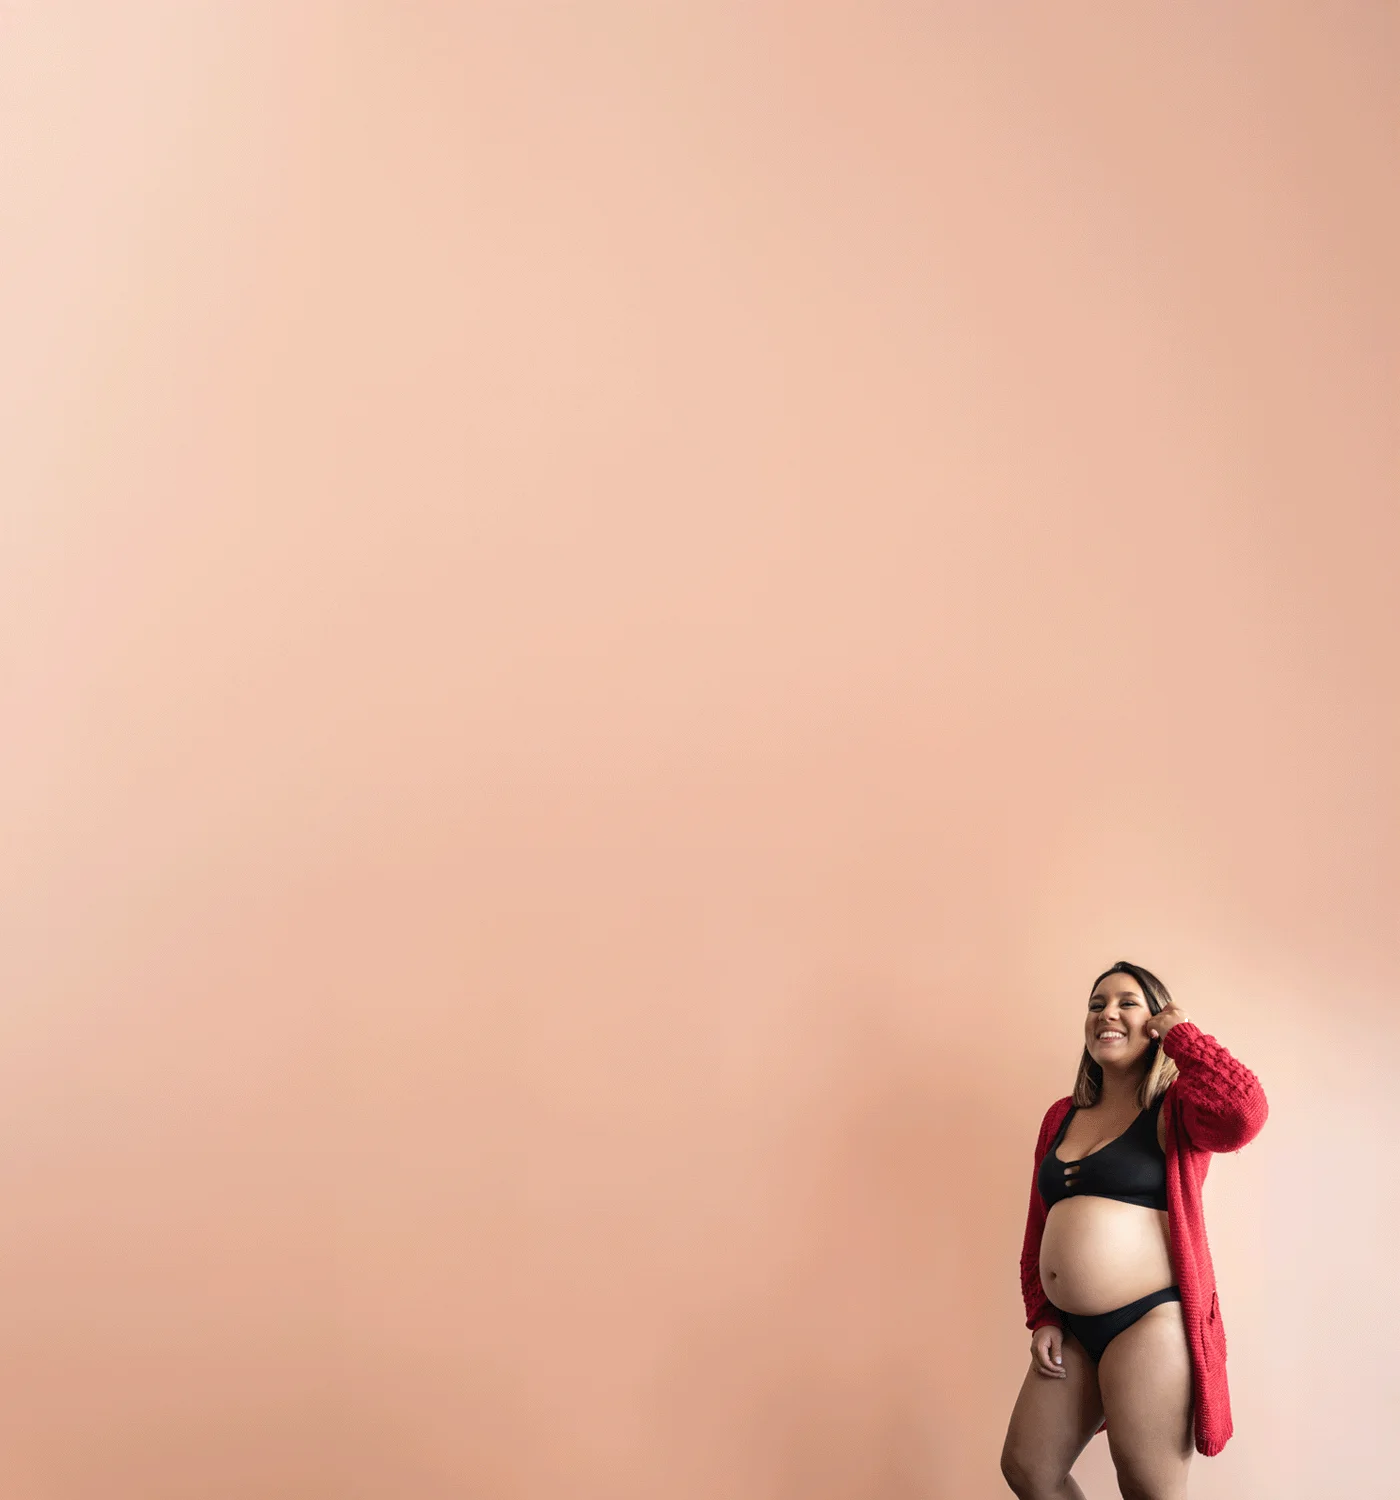
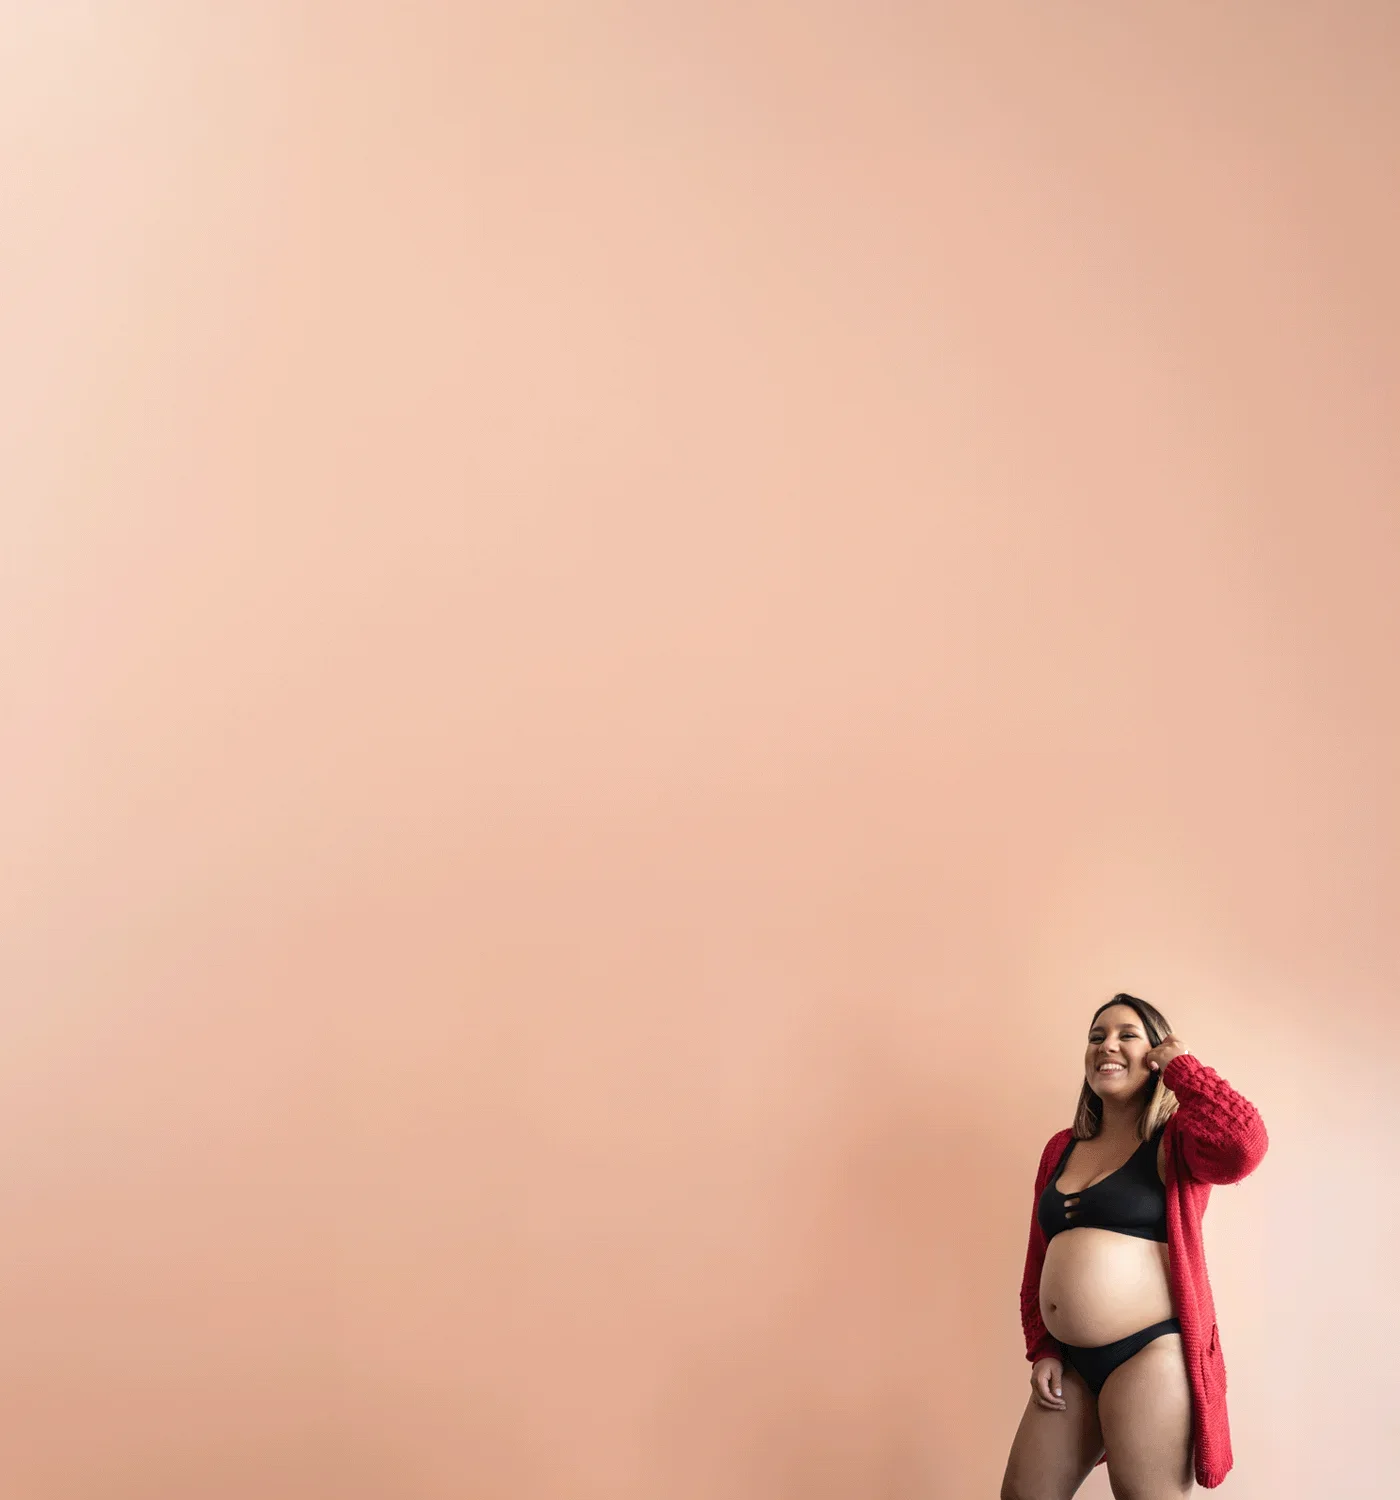
37 tamir commit - full imagenes section 1 LP

Changed region(s): [[0.7064, 0.644, 0.9214, 1.0]]

diff --git a/src/styles/modulos/sectionLp1.module.css b/src/styles/modulos/sectionLp1.module.css
@@ -83,7 +83,7 @@
         background-image: url('/src/assets/images/landing/section1/fondo2/fondo-2-landing-1.2.webp');
     }
     .bg3 {
-        background-image: url('/src/assets/images/landing/section1/fondo3/fondo-3-landing-1.1.webp');
+        background-image: url('/src/assets/images/landing/section1/fondo3/fondo-3-landing-1.2.webp');
     }
 
     .sectionTitulo,
@@ -105,7 +105,7 @@
         background-image: url('/src/assets/images/landing/section1/fondo2/fondo-2-landing-1.3.webp');
     }
     .bg3 {
-        background-image: url('/src/assets/images/landing/section1/fondo3/fondo-3-landing-1.1.webp');
+        background-image: url('/src/assets/images/landing/section1/fondo3/fondo-3-landing-1.3.webp');
     }
 
     .sectionTitulo,
@@ -135,7 +135,7 @@
         background-image: url('/src/assets/images/landing/section1/fondo2/fondo-2-landing-1.4.webp');
     }
     .bg3 {
-        background-image: url('/src/assets/images/landing/section1/fondo3/fondo-3-landing-1.1.webp');
+        background-image: url('/src/assets/images/landing/section1/fondo3/fondo-3-landing-1.4.webp');
     }
 
     .sectionTitulo,
@@ -160,7 +160,7 @@
         background-image: url('/src/assets/images/landing/section1/fondo2/fondo-2-landing-1.5.webp');
     }
     .bg3 {
-        background-image: url('/src/assets/images/landing/section1/fondo3/fondo-3-landing-1.1.webp');
+        background-image: url('/src/assets/images/landing/section1/fondo3/fondo-3-landing-1.5.webp');
     }
 
     .sectionTitulo,
@@ -189,7 +189,7 @@
         background-image: url('/src/assets/images/landing/section1/fondo2/fondo-2-landing-1.6.webp');
     }
     .bg3 {
-        background-image: url('/src/assets/images/landing/section1/fondo3/fondo-3-landing-1.1.webp');
+        background-image: url('/src/assets/images/landing/section1/fondo3/fondo-3-landing-1.6.webp');
     }
 
     .sectionTitulo h1 {
@@ -198,5 +198,17 @@
 
     .sectionTitulo h2 {
         font-size: 28px;
+    }
+}
+
+@media (min-width: 1700px) {
+    .bg1 {
+        background-image: url('/src/assets/images/landing/section1/fondo1/fondo-1-landing-1.7.webp');
+    }
+    .bg2 {
+        background-image: url('/src/assets/images/landing/section1/fondo2/fondo-2-landing-1.7.webp');
+    }
+    .bg3 {
+        background-image: url('/src/assets/images/landing/section1/fondo3/fondo-3-landing-1.7.webp');
     }
 }
